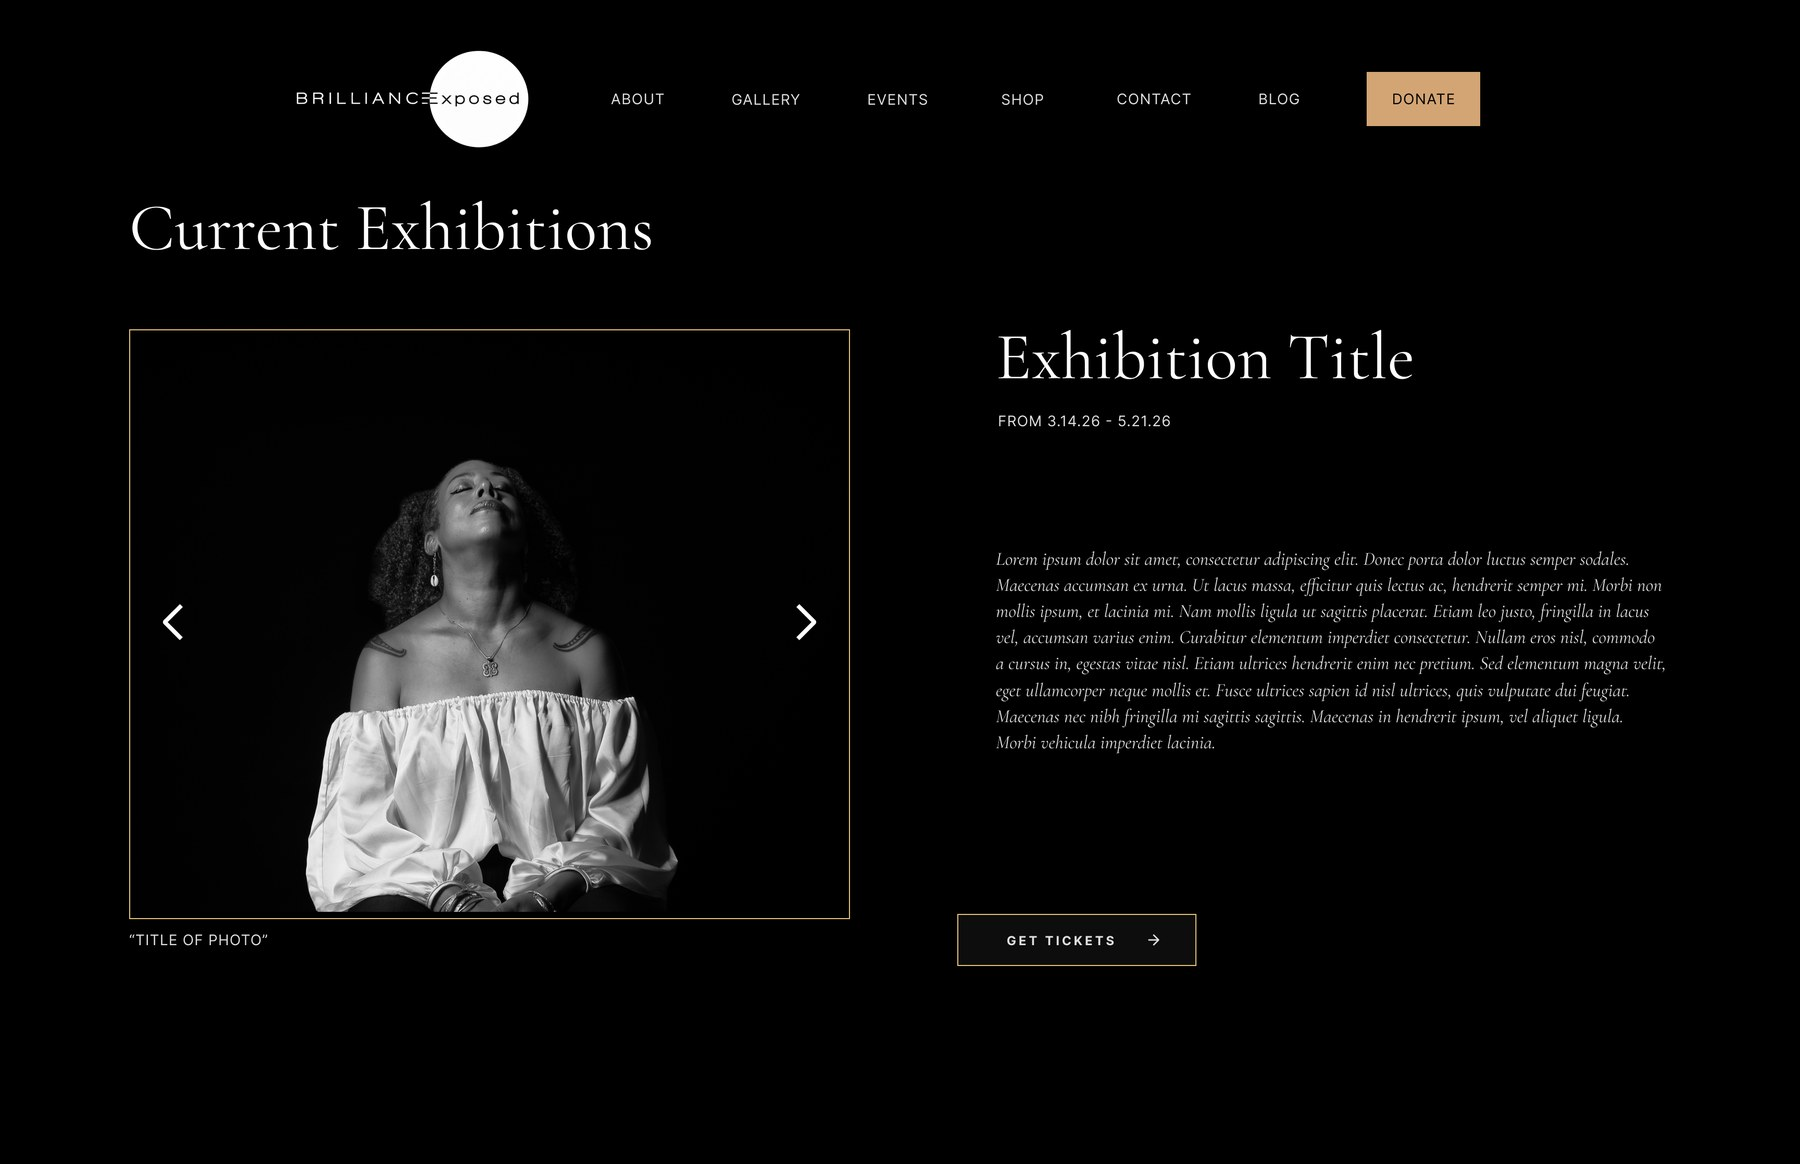
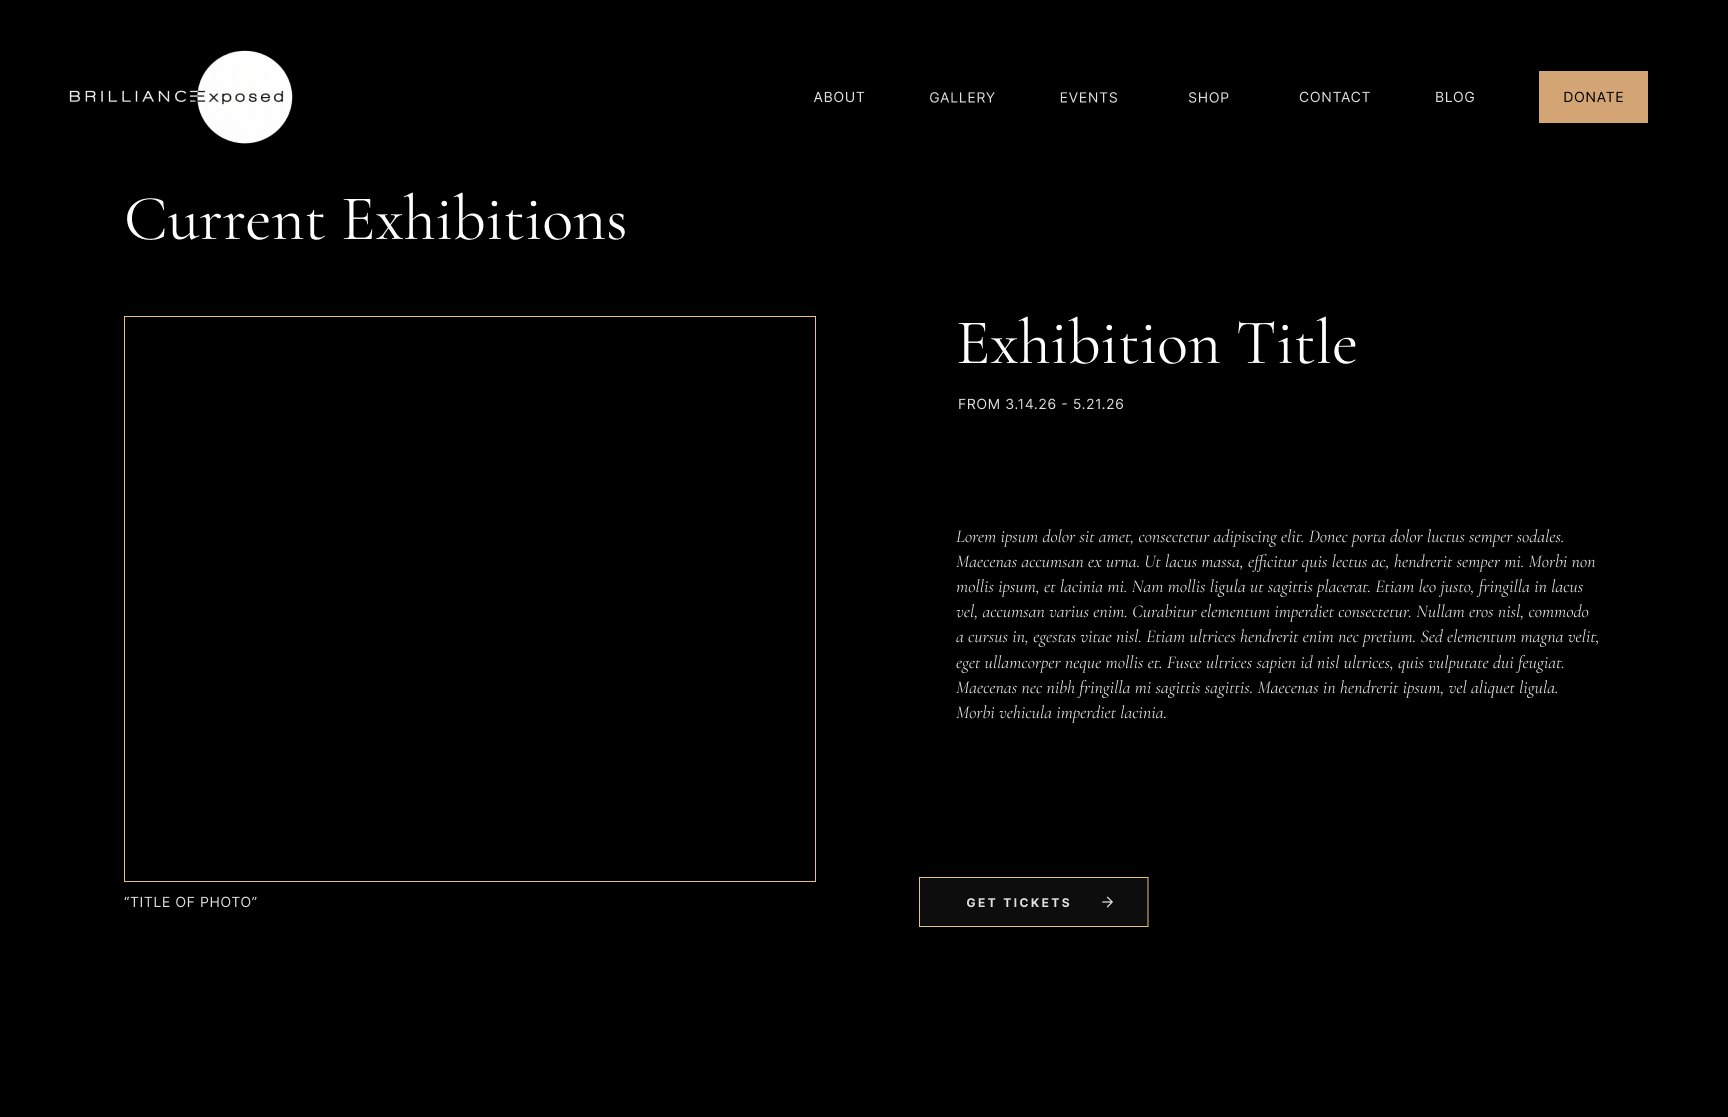
Update Brilliance Exposed About, exhibition, and contact screens

diff --git a/brilliance_exposed.html b/brilliance_exposed.html
@@ -202,7 +202,7 @@
                             <div class="design-pages-grid">
                                 <figure class="design-page">
                                     <figcaption class="project-text">About</figcaption>
-                                    <img src="brilliance_about.png" alt="About page with mission, vision, and founder bios" class="design-wide-img">
+                                    <img src="brilliance_about.jpg" alt="About page with mission, vision, and founder bios" class="design-wide-img">
                                 </figure>
                                 <figure class="design-page">
                                     <figcaption class="project-text">Gallery</figcaption>
@@ -219,15 +219,15 @@
                             <div class="design-pages-grid">
                                 <figure class="design-page">
                                     <figcaption class="project-text">Current Exhibitions</figcaption>
-                                    <img src="brilliance_current_exhibitions.jpg" alt="Current Exhibitions page with a photo carousel, exhibition details, and a Get Tickets button" class="design-wide-img">
+                                    <img src="brilliance_current_exhibitions.jpg" alt="Current Exhibitions page with a featured photo, exhibition details, and a Get Tickets button" class="design-wide-img">
                                 </figure>
                                 <figure class="design-page">
                                     <figcaption class="project-text">Future Exhibitions</figcaption>
-                                    <img src="brilliance_future_exhibitions.jpg" alt="Future Exhibitions page listing upcoming exhibitions, each with a Get Tickets button" class="design-wide-img">
+                                    <img src="brilliance_future_exhibitions.jpg" alt="Future Exhibitions page listing upcoming exhibitions beside a large featured photo" class="design-wide-img">
                                 </figure>
                                 <figure class="design-page">
                                     <figcaption class="project-text">Past Exhibitions</figcaption>
-                                    <img src="brilliance_past_exhibitions.jpg" alt="Past Exhibitions page listing previous exhibitions" class="design-wide-img">
+                                    <img src="brilliance_past_exhibitions.jpg" alt="Past Exhibitions page listing previous exhibitions beside a large featured photo" class="design-wide-img">
                                 </figure>
                                 <figure class="design-page">
                                     <figcaption class="project-text">Ticket Pop-Up</figcaption>
@@ -244,7 +244,7 @@
                             <div class="design-pages-grid">
                                 <figure class="design-page">
                                     <figcaption class="project-text">Contact</figcaption>
-                                    <img src="brilliance_contact.png" alt="Contact page with a contact form" class="design-wide-img">
+                                    <img src="brilliance_contact.jpg" alt="Contact page with address, email, and social details beside a message form" class="design-wide-img">
                                 </figure>
                             </div>
                         </div>
